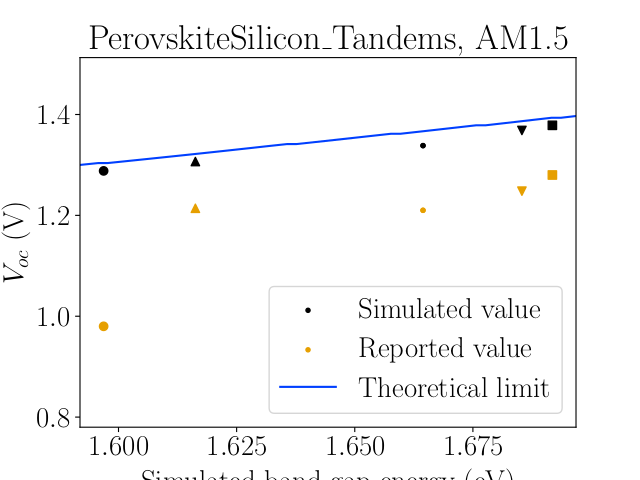
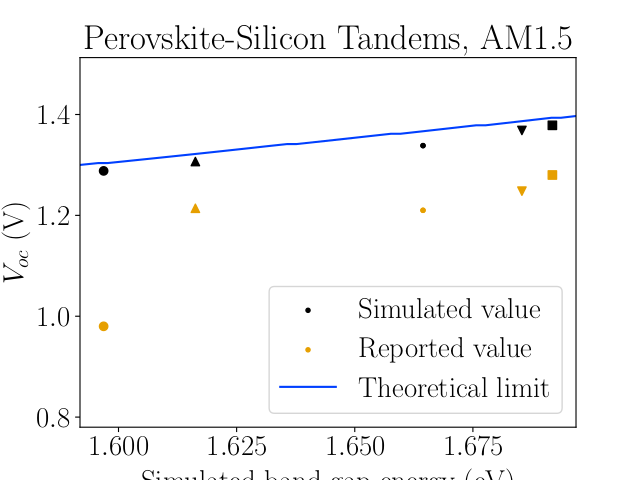
correct titles

Changed region(s): [[0.125, 0.0312, 0.9062, 0.125]]

diff --git a/Technology 3 - PerovskitePerovskite_Tandems/functions.py b/Technology 3 - PerovskitePerovskite_Tandems/functions.py
@@ -467,7 +467,7 @@ def make_V_oc_plot(
             # I've treated AM0 as AM 1.0 throughout because a lot of program logic
             # depends on AM 1.0 existing. This is a hack to make it so that the output
             # does not say "AM1.0" but instead "AM0"
-            plt.title(f"{technology_name}, AM0")
+            plt.title(f"Perovskite-Perovskite Tandems, AM0")
             directory_outputs = f"{os.path.dirname(__file__)}/Output/AM0"
             os.makedirs(directory_outputs, exist_ok=True)
             plt.savefig(f"{directory_outputs}/{technology_name}_V_oc_AM0.png")
@@ -479,7 +479,7 @@ def make_V_oc_plot(
 
             plt.close()
         else:
-            plt.title(f"{technology_name}, AM{1.0 + x * 0.25}")
+            plt.title(f"Perovskite-Perovskite Tandems, AM{1.0 + x * 0.25}")
             directory_outputs = f"{os.path.dirname(__file__)}/Output/AM{1.0 + x * 0.25}"
             os.makedirs(directory_outputs, exist_ok=True)
             plt.savefig(
@@ -583,7 +583,7 @@ def make_J_sc_plot(
             # I've treated AM0 as AM 1.0 throughout because a lot of program logic
             # depends on AM 1.0 existing. This is a hack to make it so that the output
             # does not say "AM0" but instead "AM1.0", as AM1.0 cannot physically exist.
-            plt.title(f"{technology_name}, AM0")
+            plt.title(f"Perovskite-Perovskite Tandems, AM0")
             directory_outputs = f"{os.path.dirname(__file__)}/Output/AM0"
             os.makedirs(directory_outputs, exist_ok=True)
             plt.savefig(f"{directory_outputs}/{technology_name}_J_sc_AM0.png")
@@ -595,7 +595,7 @@ def make_J_sc_plot(
             )
             plt.close()
         else:
-            plt.title(f"{technology_name}, AM{1.0 + x * 0.25}")
+            plt.title(f"Perovskite-Perovskite Tandems, AM{1.0 + x * 0.25}")
             directory_outputs = f"{os.path.dirname(__file__)}/Output/AM{1.0 + x * 0.25}"
             os.makedirs(directory_outputs, exist_ok=True)
             plt.savefig(
@@ -639,7 +639,7 @@ def make_J_o_plot(J_o: np.ndarray, E_G: np.ndarray) -> None:
     plt.xlim(min(E_G) - 0.005, max(E_G) + 0.005)
     plt.xlabel("Simulated band gap energy (eV)")
     plt.ylabel("$J_{0}$ (A/m$^2$)")
-    plt.title(f"{technology_name}")
+    plt.title(f"Perovskite-Perovskite Tandems")
     plt.legend()
     directory_outputs = f"{os.path.dirname(__file__)}/Output"
     os.makedirs(directory_outputs, exist_ok=True)

diff --git a/Technology 4 - PerovskiteSilicon_Tandems/functions.py b/Technology 4 - PerovskiteSilicon_Tandems/functions.py
@@ -467,7 +467,7 @@ def make_V_oc_plot(
             # I've treated AM0 as AM 1.0 throughout because a lot of program logic
             # depends on AM 1.0 existing. This is a hack to make it so that the output
             # does not say "AM1.0" but instead "AM0"
-            plt.title(f"{technology_name}, AM0")
+            plt.title(f"Perovskite-Silicon Tandems, AM0")
             directory_outputs = f"{os.path.dirname(__file__)}/Output/AM0"
             os.makedirs(directory_outputs, exist_ok=True)
             plt.savefig(f"{directory_outputs}/{technology_name}_V_oc_AM0.png")
@@ -479,7 +479,7 @@ def make_V_oc_plot(
 
             plt.close()
         else:
-            plt.title(f"{technology_name}, AM{1.0 + x * 0.25}")
+            plt.title(f"Perovskite-Silicon Tandems, AM{1.0 + x * 0.25}")
             directory_outputs = f"{os.path.dirname(__file__)}/Output/AM{1.0 + x * 0.25}"
             os.makedirs(directory_outputs, exist_ok=True)
             plt.savefig(
@@ -583,7 +583,7 @@ def make_J_sc_plot(
             # I've treated AM0 as AM 1.0 throughout because a lot of program logic
             # depends on AM 1.0 existing. This is a hack to make it so that the output
             # does not say "AM0" but instead "AM1.0", as AM1.0 cannot physically exist.
-            plt.title(f"{technology_name}, AM0")
+            plt.title(f"Perovskite-Silicon Tandems, AM0")
             directory_outputs = f"{os.path.dirname(__file__)}/Output/AM0"
             os.makedirs(directory_outputs, exist_ok=True)
             plt.savefig(f"{directory_outputs}/{technology_name}_J_sc_AM0.png")
@@ -595,7 +595,7 @@ def make_J_sc_plot(
             )
             plt.close()
         else:
-            plt.title(f"{technology_name}, AM{1.0 + x * 0.25}")
+            plt.title(f"Perovskite-Silicon Tandems, AM{1.0 + x * 0.25}")
             directory_outputs = f"{os.path.dirname(__file__)}/Output/AM{1.0 + x * 0.25}"
             os.makedirs(directory_outputs, exist_ok=True)
             plt.savefig(
@@ -639,7 +639,7 @@ def make_J_o_plot(J_o: np.ndarray, E_G: np.ndarray) -> None:
     plt.xlim(min(E_G) - 0.005, max(E_G) + 0.005)
     plt.xlabel("Simulated band gap energy (eV)")
     plt.ylabel("$J_{0}$ (A/m$^2$)")
-    plt.title(f"{technology_name}")
+    plt.title(f"Perovskite-Silicon Tandems")
     plt.legend()
     directory_outputs = f"{os.path.dirname(__file__)}/Output"
     os.makedirs(directory_outputs, exist_ok=True)
